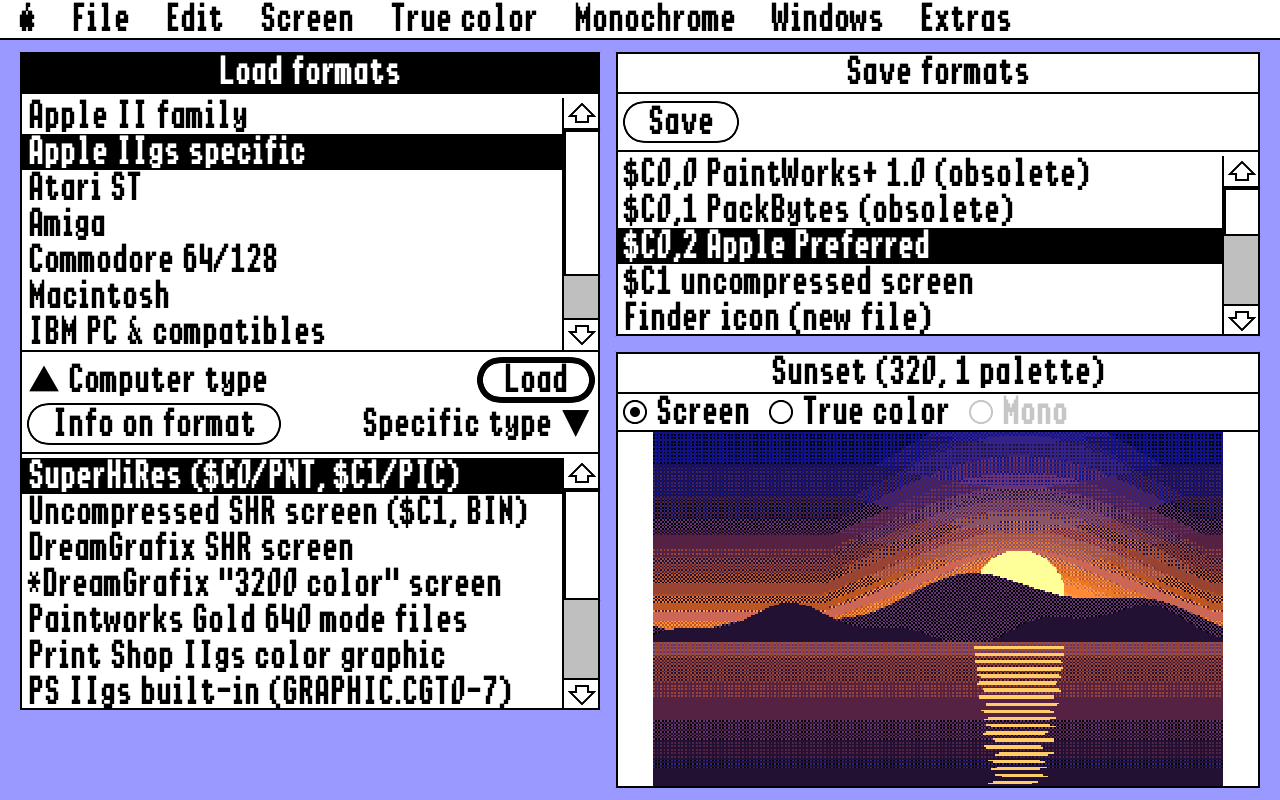
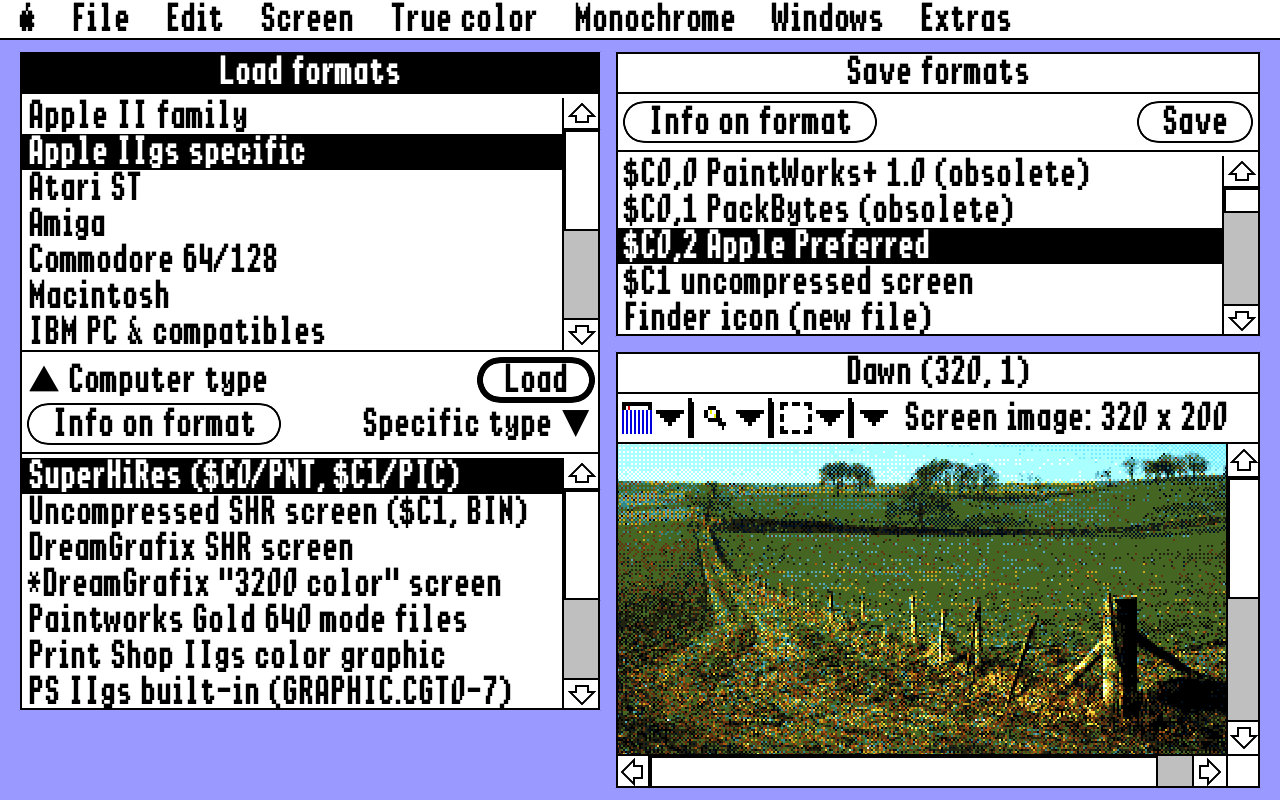
GS Remap: new screenshots with photos, image window section

diff --git a/GSRemap/index.html b/GSRemap/index.html
@@ -78,8 +78,24 @@
         <section class="window half">
             <h2>640 dither mode</h2>
             <div class="body">
-                <img class="shot" src="img/640-dither.png" width="1280" height="800" alt="A sunset picture rendered in Apple IIgs 640 dither mode with the default palette">
-                <p class="caption">A sunset in 640 x 200 dither mode with the standard palette: eight colors, used the way IIgs desktop programs use them.</p>
+                <img class="shot" src="img/640-dither.png" width="1280" height="800" alt="A landscape photo rendered in Apple IIgs 640 dither mode with the default palette">
+                <p class="caption">A landscape in 640 x 200 dither mode with the standard palette: eight colors, used the way IIgs desktop programs use them.</p>
+            </div>
+        </section>
+
+        <section class="window half">
+            <h2>Image window</h2>
+            <div class="body">
+                <img class="shot" src="img/image-window.png" width="1280" height="800" alt="The Image window with a landscape photo and a selection frame, the info bar showing the selection size">
+                <p class="caption">Drag a selection; it snaps to whole bytes or pixels and shows its size. Zoom from 1/8 to 8X, peek at pixel values, or crop to the selection.</p>
+            </div>
+        </section>
+
+        <section class="window half">
+            <h2>Pop-up menus</h2>
+            <div class="body">
+                <img class="shot" src="img/image-popup.png" width="1280" height="800" alt="The image type pop-up menu of the Image window">
+                <p class="caption">The info bar's pop-ups choose the kind of image shown, its pixel size, the zoom, the tool and the actions.</p>
             </div>
         </section>
 
@@ -94,7 +110,7 @@
         <section class="window half">
             <h2>Monochrome</h2>
             <div class="body">
-                <img class="shot" src="img/monochrome.png" width="1280" height="800" alt="A monochrome image made with error diffusion shown in the Image window">
+                <img class="shot" src="img/monochrome.png" width="1280" height="800" alt="A tree silhouette as a monochrome image made with error diffusion, shown in the Image window">
                 <p class="caption">One bit per pixel, with error diffusion, pattern dither, halftone or a plain threshold.</p>
             </div>
         </section>
